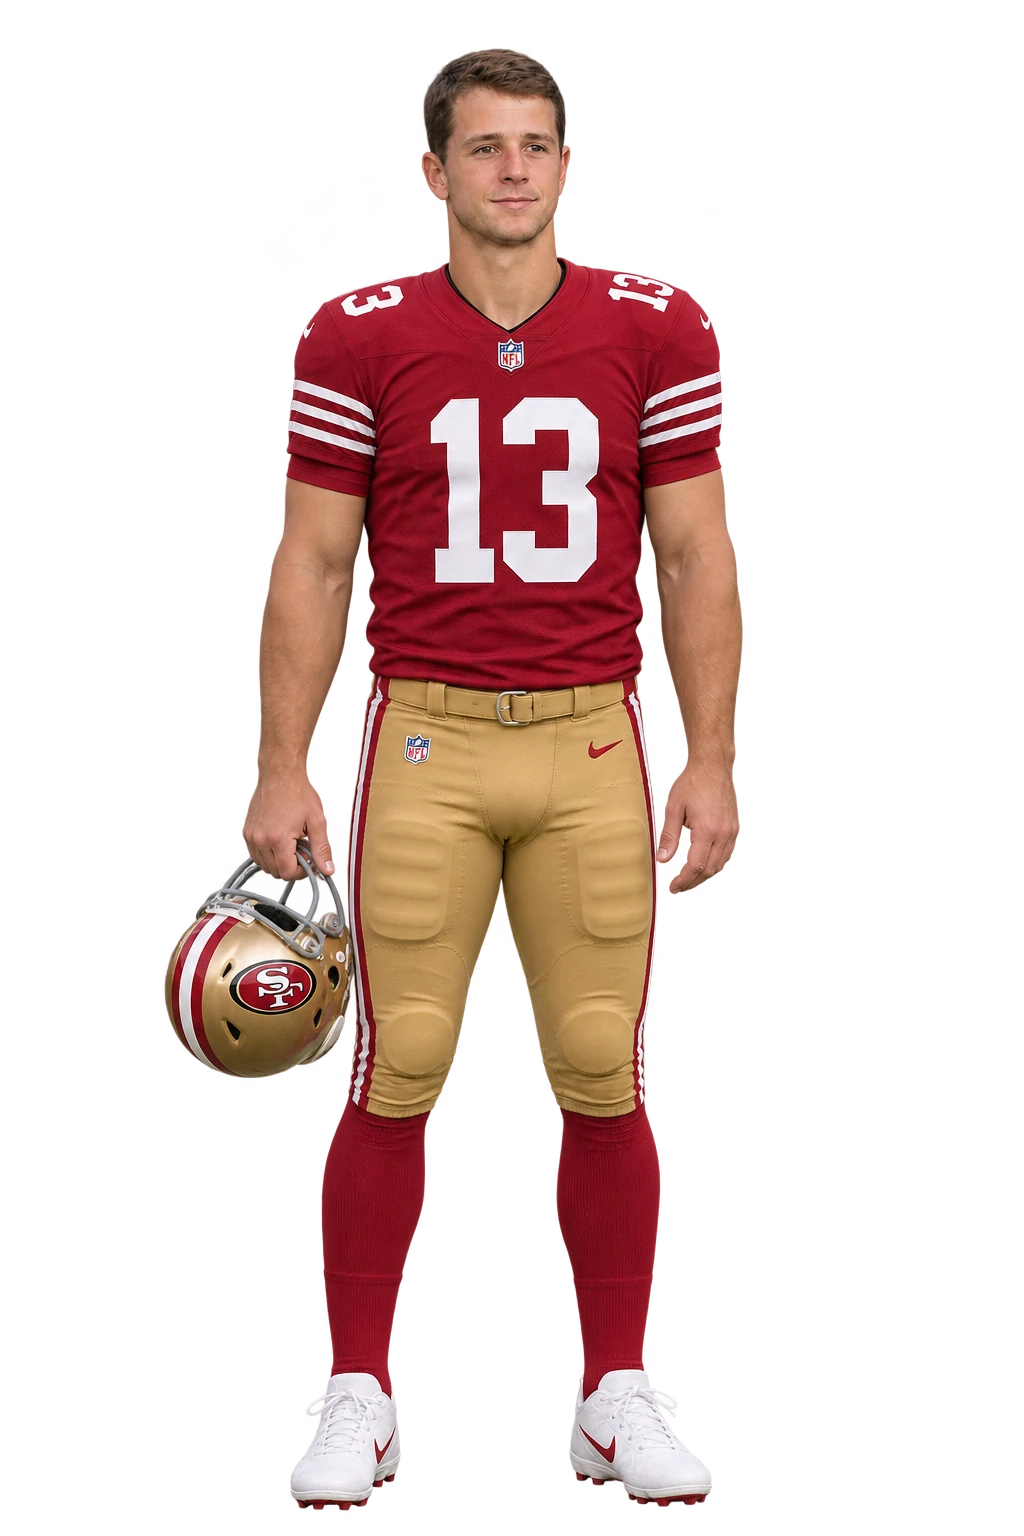
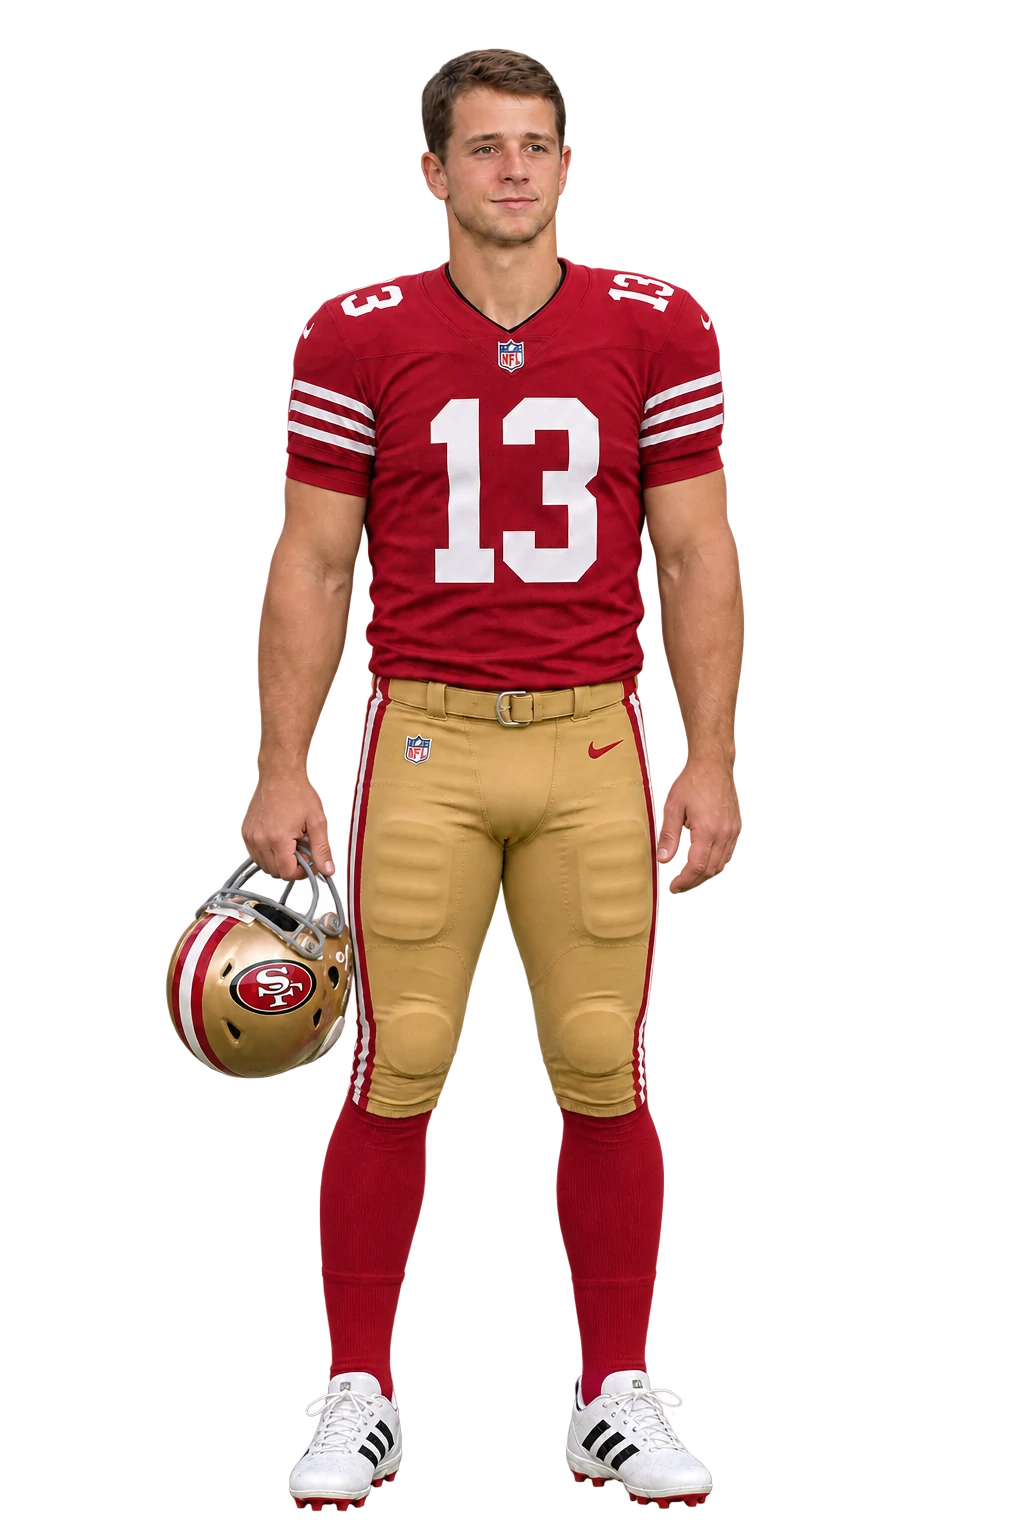
Restore Adidas cleats for Brock game-day gear

diff --git a/work/chasing-birdies.html b/work/chasing-birdies.html
@@ -172,7 +172,7 @@
     <div class="cb-outfit-demo">
     <div class="cb-character" aria-label="Brock Purdy · Game-day wear">
       <img class="cb-character-look" data-look="golf" src="/images/birdies-purdy-cohesive-ivory.webp?v=2" alt="Brock Purdy wearing an ivory signature 13 golf polo and khaki trousers" width="1024" height="1536" loading="lazy">
-      <img class="cb-character-look is-visible" data-look="game" src="/images/birdies-purdy-cohesive-game-day.webp" alt="Brock Purdy wearing his red number 13 football uniform" width="1024" height="1536" loading="lazy">
+      <img class="cb-character-look is-visible" data-look="game" src="/images/birdies-purdy-cohesive-game-day.webp?v=2" alt="Brock Purdy wearing his red number 13 football uniform" width="1024" height="1536" loading="lazy">
       <img class="cb-character-look" data-look="black-glove" src="/images/birdies-purdy-cohesive-black.webp?v=3" alt="Brock Purdy in a black 49ers polo with a white 13 golf glove" width="1024" height="1536" loading="lazy">
       <p class="cb-preview-caption"><span>Scroll to see the outfit change</span><strong>Brock Purdy · Game-day wear</strong></p>
     </div>

diff --git a/docs/chasing-birdies-wardrobe.md b/docs/chasing-birdies-wardrobe.md
@@ -11,7 +11,8 @@ athletic proportions, and soft daylight matching the newer swing presentation.
 - `images/birdies-purdy-cohesive-ivory.webp`: ivory signature 13 polo, matching
   trousers and shoes, both hands bare.
 - `images/birdies-purdy-cohesive-game-day.webp`: scarlet number 13 uniform,
-  gold pants, white cleats, and a helmet held in the right hand.
+  gold pants, white Adidas cleats with black three stripes and red studs,
+  and a helmet held in the right hand.
 
 All assets are 1024 × 1536 with transparency. The small player portrait crops
 the black-polo master through an SVG viewBox, so it shares the same face without
@@ -53,3 +54,8 @@ Outfit changes swap the complete portraits directly. The former simultaneous
 opacity fade and eight-pixel vertical slide doubled facial details and changed
 their apparent lighting during the transition. Selection highlights retain
 their subtle animation; portrait assets, framing, and scroll timing are unchanged.
+
+The game-day cleats were restored to the earlier Adidas design with a localized
+footwear edit of the current cutout. The current likeness, red socks, uniform
+numbering and clothing marks are retained; golf looks and the swing film are
+unchanged.
